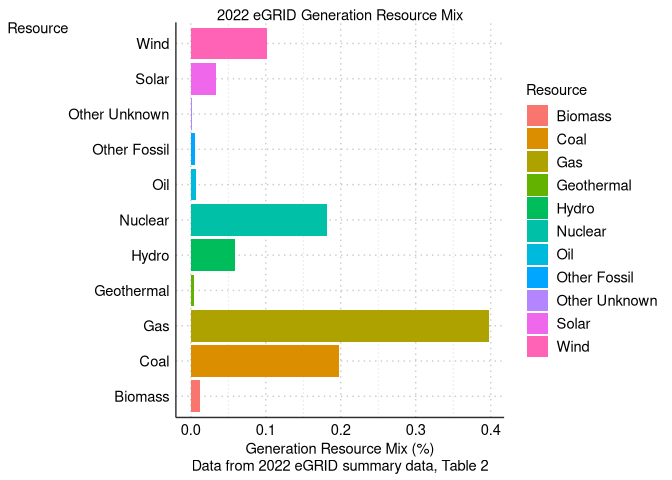
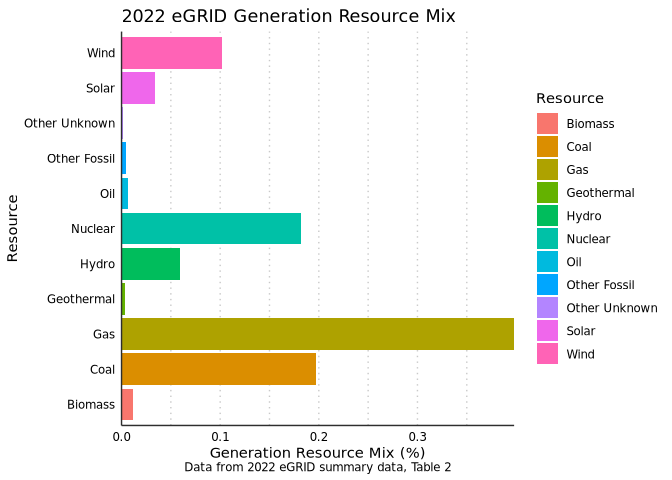
update README example charts

Changed region(s): [[0.0312, 0.0, 1.0, 1.0], [0.0, 0.4062, 0.0312, 0.5625], [0.0, 0.0312, 0.0938, 0.0938]]

diff --git a/README.md b/README.md
@@ -36,10 +36,11 @@ library(ggcapdthemes)
 ## build ggplot barplot
 p_bar <- ggplot(data = resource_mix[resource_mix$year == 2022,]) +
   geom_bar(mapping = aes(x = generation_resource_mix, y = resource_label, fill = resource_label),
-           stat = 'identity') +
+           stat = 'identity') + 
   labs(x = 'Generation Resource Mix (%)', y = 'Resource', fill = 'Resource', 
        title = '2022 eGRID Generation Resource Mix',
-       caption = 'Data from 2022 eGRID summary data, Table 2')
+       caption = 'Data from 2022 eGRID summary data, Table 2') +
+  scale_x_continuous(expand = c(0,0))
 
 ## original chart
 p_bar
@@ -50,7 +51,7 @@ p_bar
 ``` r
 
 ## with capd theme
-p_bar + theme_capd()
+p_bar + theme_capd(orientation = 'vert')
 ```
 
 <img src="man/figures/README-example-2.png" width="100%" />
@@ -58,9 +59,9 @@ p_bar + theme_capd()
 ``` r
 
 ## with fuel type color palette and capd theme
-p_bar + 
+p_bar +
   scale_fill_capd_discrete(palette = 'fuel_type') +
-  theme_capd() 
+  theme_capd(orientation = 'vert') 
 ```
 
 <img src="man/figures/README-example-3.png" width="100%" />
